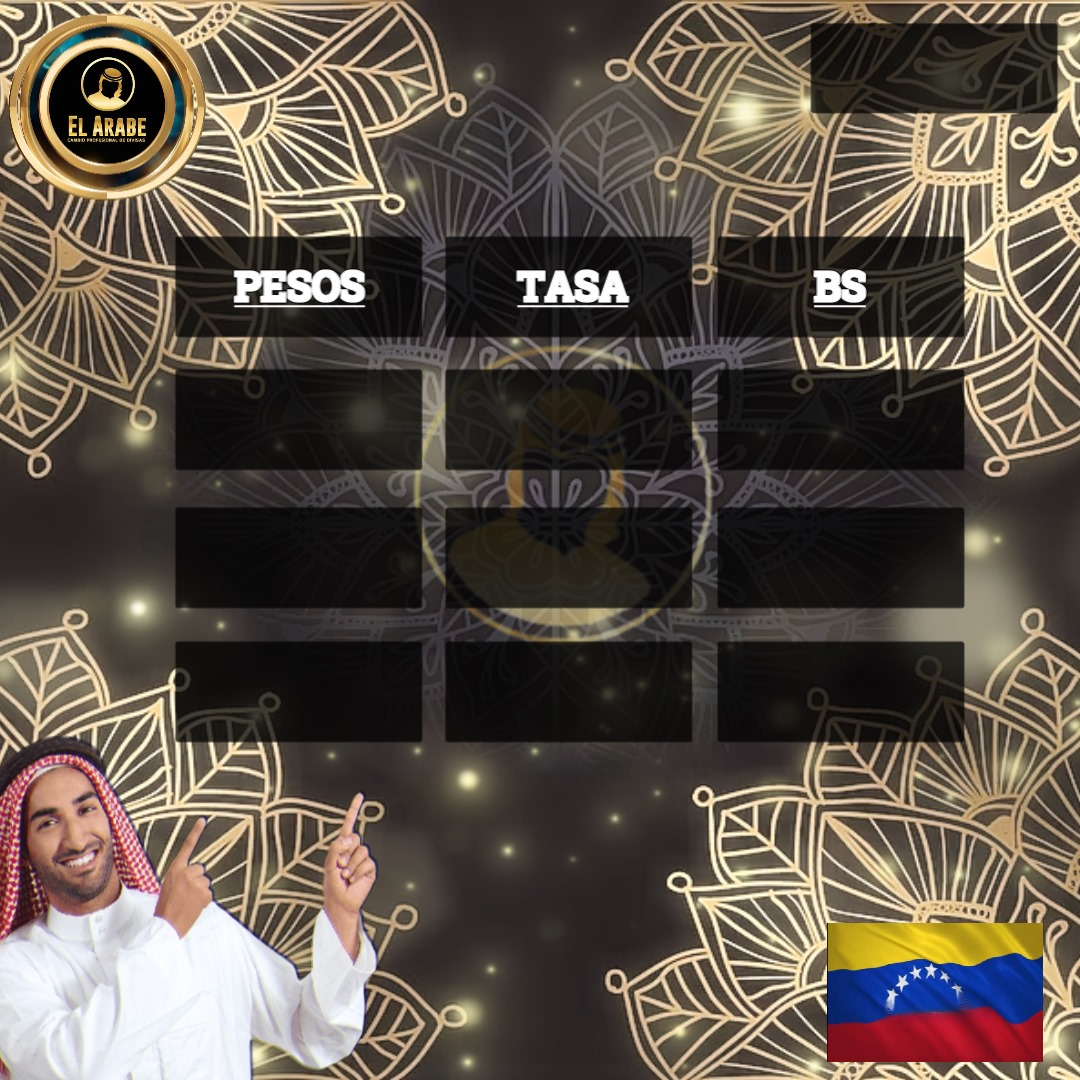
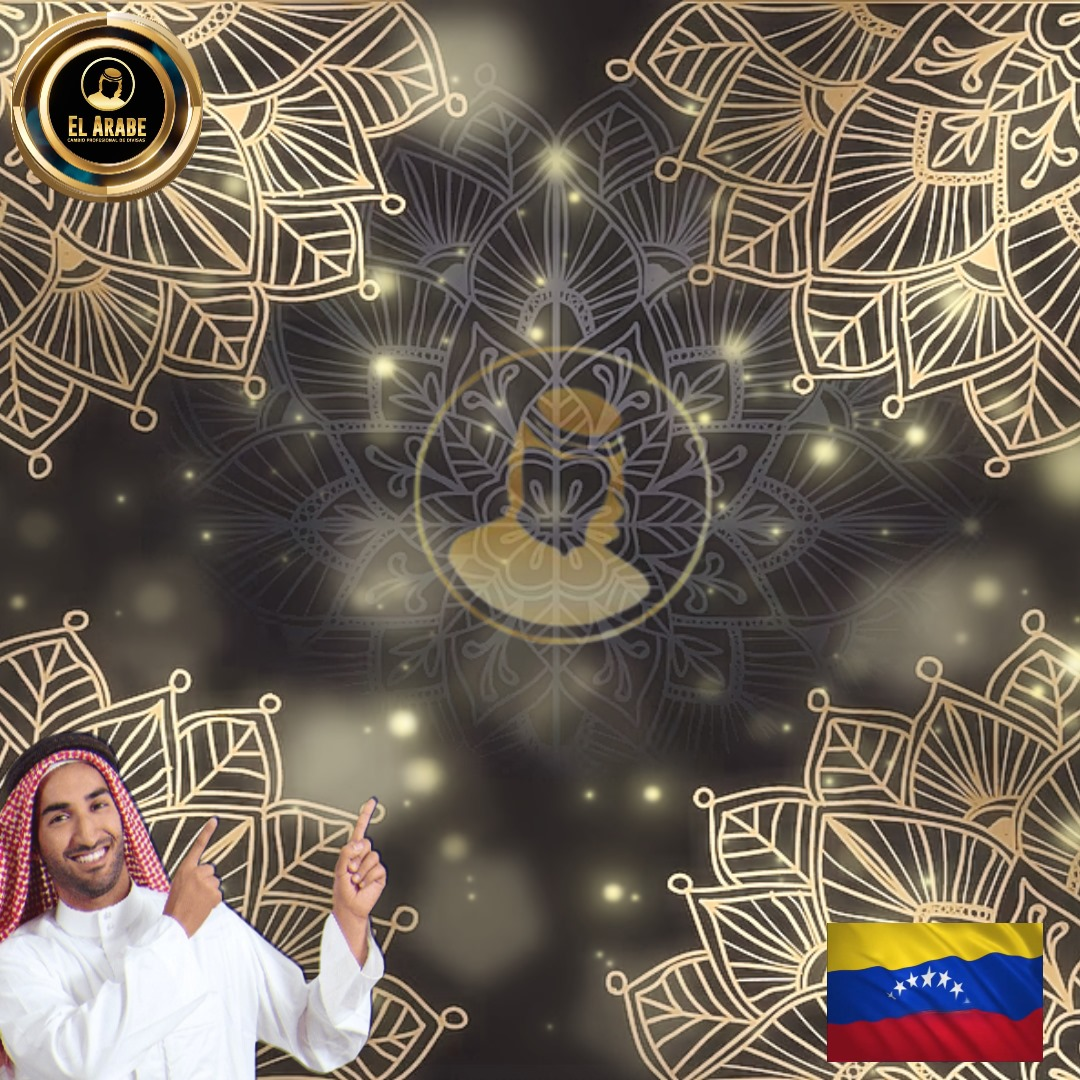
se arreglo el estilo de la imagen descargable

diff --git a/src/app/tasa/tasa.component.ts b/src/app/tasa/tasa.component.ts
@@ -44,7 +44,7 @@ export class TasaComponent implements OnInit {
           this.tasas = data.map(item => ({ ...item, editable: false }));
         }
       },
-      (error) => {
+      (error: any) => {
         console.error('Error al cargar las tasas:', error);
       }
     );
@@ -55,7 +55,7 @@ export class TasaComponent implements OnInit {
   }
 
   saveItem() {
-    this.tasas.forEach((item, index) => {
+    this.tasas.forEach((item: Tasa & { editable: boolean }, index: number) => {
       if (item.editable) {
         this.tasaService.updateTasa(item.id!, item).subscribe(
           (updatedItem: Tasa) => {
@@ -63,7 +63,7 @@ export class TasaComponent implements OnInit {
             item.pesos = this.calculatePesos(item.bolivares!, item.tasaVenta!, item.sumaTasa!);
             console.log('Item guardado:', updatedItem);
           },
-          (error) => {
+          (error: any) => {
             console.error('Error al guardar la tasa:', error);
           }
         );
@@ -112,6 +112,14 @@ export class TasaComponent implements OnInit {
     });
   }
 
+  // Función para formatear la fecha a DD/MM/YYYY
+  formatDate(date: Date): string {
+    const day = ('0' + date.getDate()).slice(-2);
+    const month = ('0' + (date.getMonth() + 1)).slice(-2);
+    const year = date.getFullYear();
+    return `${day}/${month}/${year}`;
+  }
+
   async downloadTableAsImage(): Promise<void> {
     const canvas = await html2canvas(this.captureElement.nativeElement);
     const imageData = canvas.toDataURL('image/jpeg');
@@ -122,30 +130,77 @@ export class TasaComponent implements OnInit {
       const imgCanvas = document.createElement('canvas');
       const context = imgCanvas.getContext('2d')!;
 
-      imgCanvas.width = img.width;
-      imgCanvas.height = img.height;
+      imgCanvas.width = 1080;
+      imgCanvas.height = 1080;
 
       context.drawImage(img, 0, 0);
 
-      // Agregar los valores de la tabla centrados
+      // Agregar la fecha actual en la parte superior derecha
+      const today = new Date();
+      const dateString = this.formatDate(today); // Utilizar la función de formato de fecha
+      const datePadding = 20; // Padding alrededor de la fecha
+      const boxWidth = 300; // Ancho de las cajas
+      const boxHeight = 70; // Altura de las cajas
+      context.fillStyle = 'rgba(0, 0, 0, 0.6)'; // Fondo negro con opacidad
+      context.fillRect(imgCanvas.width - boxWidth - 50, 50, boxWidth, boxHeight); // Fondo negro con opacidad para la fecha
       context.fillStyle = '#fff';
-      context.font = 'bold 50px Arial'; // Fuente en negrita
+      context.font = 'bold 50px Arial';
+      context.textBaseline = 'middle'; // Centrar verticalmente el texto
+      context.fillText(dateString, imgCanvas.width - boxWidth / 1.15 - 50, 50 + boxHeight / 2);
 
-      // Calcular la posición vertical inicial
+      // Agregar los títulos de las columnas
+      const columnSpacing = 280; // Espacio entre columnas
+      const titles = ['PESOS', 'TASA', 'BOLIVAR'];
+      const baseXOffset = imgCanvas.width / 2 - (3 * columnSpacing) / 3; // Centrar las columnas
+      const boxWidthTitle = 250; // Ancho fijo de las cajas para los títulos
+
+      titles.forEach((title, i) => {
+        context.fillStyle = 'rgba(0, 0, 0, 0.6)';
+        context.fillRect(baseXOffset + i * columnSpacing - boxWidthTitle / 2, 260, boxWidthTitle, boxHeight); // Fondo negro para cada título
+        context.fillStyle = '#fff';
+        context.textAlign = 'center'; // Centrar horizontalmente el texto
+        context.fillText(title, baseXOffset + i * columnSpacing, 300); // Posicionar el texto centrado
+      });
+
+      // Agregar los valores de la tabla centrados con fondo negro semitransparente
+      context.font = 'bold 50px Arial'; // Fuente en negrita
       const lineHeight = 135; // Aumentar la altura de cada línea para más espacio entre filas
       const totalHeight = this.tasas.length * lineHeight;
-      let yOffset = (imgCanvas.height - totalHeight) / 1.55;
-
-      const columnSpacing = 250; // Espacio entre columnas
+      let yOffset = (imgCanvas.height - totalHeight) / 2 + 100; // Ajustar para títulos de columnas
 
       this.tasas.forEach((item, index) => {
-        // Calcular la posición horizontal del texto
-        const baseXOffset = imgCanvas.width / 2 - (3 * columnSpacing) / 2.7; // Centrar las columnas
+        const baseXOffset = imgCanvas.width / 2 - (3 * columnSpacing) / 3; // Centrar las columnas
         
-        context.fillText(`${item.pesos}`, baseXOffset + 2 * columnSpacing, yOffset + index * lineHeight);
-        context.fillText(`${item.bolivares}`, baseXOffset, yOffset + index * lineHeight);
-        context.fillText(`${item.tasaVenta}`, baseXOffset + columnSpacing, yOffset + index * lineHeight);
+        // Fondo negro semitransparente para cada valor
+        const textHeight = 80; // Altura del fondo
+        const boxWidthFixed = 250; // Ancho fijo de las cajas
 
+        context.fillStyle = 'rgba(0, 0, 0, 0.6)';
+
+        const bolivaresText = `${item.bolivares}`;
+        const tasaText = `${item.tasaVenta}`;
+        const pesosText = `$${item.pesos}`;
+
+        // Dibujar fondo para bolivares
+        context.fillRect(baseXOffset + 2 * columnSpacing - boxWidthFixed / 2, yOffset + index * lineHeight - textHeight / 2, boxWidthFixed, textHeight);
+        // Dibujar fondo para tasa
+        context.fillRect(baseXOffset + columnSpacing - boxWidthFixed / 2, yOffset + index * lineHeight - textHeight / 2, boxWidthFixed, textHeight);
+        // Dibujar fondo para pesos
+        context.fillRect(baseXOffset - boxWidthFixed / 2, yOffset + index * lineHeight - textHeight / 2, boxWidthFixed, textHeight);
+
+        // Dibujar texto para bolivares
+        context.fillStyle = '#fff';
+        context.textAlign = 'center'; // Centrar horizontalmente el texto
+        context.textBaseline = 'middle'; // Centrar verticalmente el texto
+        context.fillText(bolivaresText, baseXOffset + 2 * columnSpacing, yOffset + index * lineHeight);
+
+        // Dibujar texto para tasa con color específico
+        context.fillStyle = '#FFD700'; // Amarillo
+        context.fillText(tasaText, baseXOffset + columnSpacing, yOffset + index * lineHeight);
+
+        // Dibujar texto para pesos
+        context.fillStyle = '#fff';
+        context.fillText(pesosText, baseXOffset, yOffset + index * lineHeight);
       });
 
       const finalImageData = imgCanvas.toDataURL('image/jpeg');

diff --git a/src/app/shared/sidebar-polania/sidebar-polania.component.ts b/src/app/shared/sidebar-polania/sidebar-polania.component.ts
@@ -2,7 +2,7 @@ import { Component, EventEmitter, HostListener, OnInit, Output } from '@angular/
 import { MatSidenavModule } from '@angular/material/sidenav';
 import { MatToolbar } from '@angular/material/toolbar';
 import { MatIcon } from '@angular/material/icon';
-import { RouterModule, RouterOutlet, Router } from '@angular/router';
+import { RouterModule, RouterOutlet } from '@angular/router';
 import { MatNavList } from '@angular/material/list';
 import { MatDivider, MatDividerModule } from '@angular/material/divider';
 import { navbarData } from './nav-data';
@@ -38,14 +38,7 @@ export class SidebarPolaniaComponent implements OnInit {
   screenWidth = 0;
   navData = navbarData;
   isMobile = false;
-
-  constructor(private router: Router) {
-    this.router.events.subscribe(() => {
-      if (this.isMobile || this.collapsad) {
-        this.closeSidenav();
-      }
-    });
-  }
+  showOverlay = false;
 
   @HostListener('window:resize', ['$event'])
   onResize(event: any) {
@@ -53,6 +46,7 @@ export class SidebarPolaniaComponent implements OnInit {
     this.isMobile = this.screenWidth <= 768;
     if (this.isMobile) {
       this.collapsad = false;
+      this.showOverlay = false;
       this.onToggleSideNav.emit({ collapsed: this.collapsad, screenWidth: this.screenWidth });
     }
   }
@@ -64,16 +58,24 @@ export class SidebarPolaniaComponent implements OnInit {
 
   toggleCollapse(): void {
     this.collapsad = !this.collapsad;
+    this.showOverlay = this.isMobile && this.collapsad;
     this.onToggleSideNav.emit({ collapsed: this.collapsad, screenWidth: this.screenWidth });
   }
 
   closeSidenav(): void {
     this.collapsad = false;
+    this.showOverlay = false;
     this.onToggleSideNav.emit({ collapsed: this.collapsad, screenWidth: this.screenWidth });
   }
 
   closeOnSelect(): void {
-    if (this.isMobile || this.collapsad) {
+    if (this.isMobile) {
+      this.closeSidenav();
+    }
+  }
+
+  handleOverlayClick(): void {
+    if (this.isMobile) {
       this.closeSidenav();
     }
   }

diff --git a/src/app/shared/sidebar-polania/sidebar-polania.component.css b/src/app/shared/sidebar-polania/sidebar-polania.component.css
@@ -13,14 +13,14 @@
   position: absolute;
   top: 10px;
   left: 10px;
-  z-index: 2;
+  z-index: 3; /* Asegurarse de que el botón esté encima de la superposición */
 }
 
 .sidenav {
   background: #ffffff;
   transition: all .5s ease;
   position: fixed;
-  z-index: 1;
+  z-index: 2;
   top: 0;
   width: 5rem;
   height: 100%;

diff --git a/src/app/shared/sidebar-polania/sidebar-polania.component.html b/src/app/shared/sidebar-polania/sidebar-polania.component.html
@@ -17,4 +17,5 @@
       </li>
     </ul>
   </div>
+  <div class="overlay" *ngIf="showOverlay" (click)="handleOverlayClick()"></div>
 </div>
